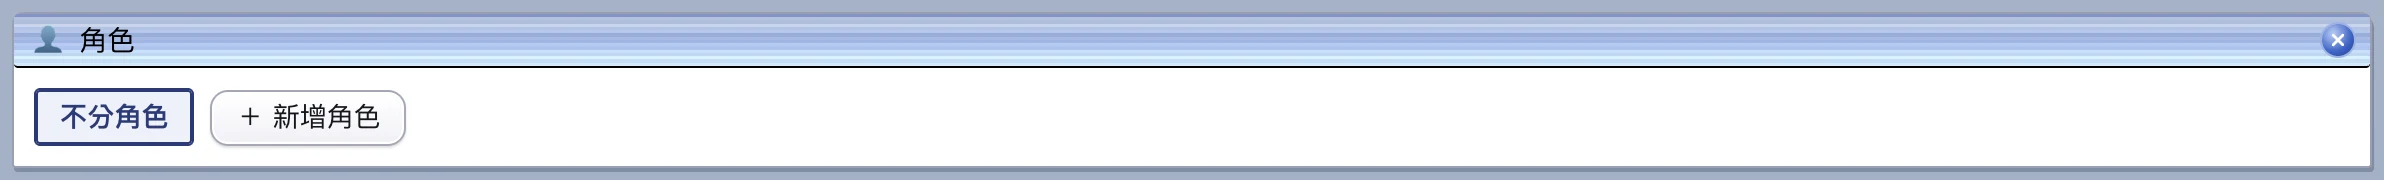
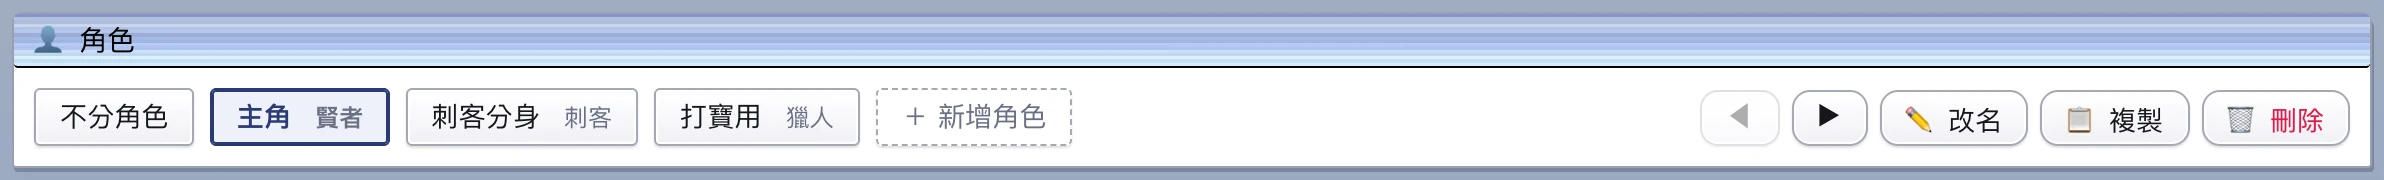
使用說明：角色分開、刪除只影響配裝、倉庫右鍵、分享不含倉庫與每日；重拍角色列、設定、人物狀態、能力加總截圖；人物狀態說明改成含 Buff、料理、藥水

diff --git a/public/gear-guide.html b/public/gear-guide.html
@@ -82,7 +82,7 @@
   <div class="card" id="settings">
     <h2>2. 角色、設定與人物狀態</h2>
     <h3 class="sub-h">角色</h3>
-    <figure><img src="guide/g-chars.webp" width="1192" height="90" alt="角色列：不分角色、各角色、新增、改名、刪除" loading="lazy"></figure>
+    <figure><img src="guide/g-chars.webp?v=2" width="1192" height="90" alt="角色列：不分角色、各角色（後面是職業）、新增角色，右邊是排序、改名、複製、刪除" loading="lazy"></figure>
     <ul>
       <li>每個角色各存一份配裝，點角色名稱就切換；名稱旁邊顯示該角色的職業。</li>
       <li>配裝的角色名單只和<b>技能樹頁</b>共用，和每日任務、期間活動、攻速計算的角色<b>分開</b>：在這裡新增、刪除、改名、排序、切換，都不會影響那幾頁（反過來也一樣）。</li>
@@ -90,10 +90,12 @@
       <li>新增角色時，會先複製目前畫面上的配裝。</li>
       <li><b>📋 複製角色</b>：選了角色時出現，用這個角色的整份配裝（職業、等級、素質、裝備、附魔、卡片、符文、Buff、技能樹）建一個新角色，名稱預設「○○ 的複本」。適合同一隻角色試不同配裝。</li>
       <li><b>調整順序</b>：直接拖曳角色（手機長按一下再拖），或用 ◀ ▶ 移動目前角色。技能樹頁的角色順序也會跟著變。</li>
+      <li><b>✏ 改名／🗑 刪除</b>：只改配裝（和技能樹頁）的這個角色；刪除會刪掉這個角色的配裝與技能點，每日任務等頁的同名角色和進度不受影響。</li>
+      <li>舊版配裝和每日任務共用角色；更新後第一次打開時，有配裝的角色會自動搬到配裝的名單，名稱和配裝都保留。</li>
     </ul>
     <div class="two">
-      <figure><img src="guide/g-settings.webp" width="800" height="539" alt="設定區：職業、Base 等級、Job 等級，啟用附魔／卡片／符文／技能樹開關" loading="lazy"><figcaption>設定</figcaption></figure>
-      <figure><img src="guide/g-status.webp" width="392" height="303" alt="人物狀態：六項素質與 ATK、MATK、HIT、CRI、DEF、MDEF、FLEE、ASPD" loading="lazy"><figcaption>人物狀態</figcaption></figure>
+      <figure><img src="guide/g-settings.webp?v=2" width="796" height="579" alt="設定區：職業、Base 等級、Job 等級，啟用附魔／卡片／符文／Buff／技能樹開關" loading="lazy"><figcaption>設定</figcaption></figure>
+      <figure><img src="guide/g-status.webp?v=2" width="392" height="369" alt="人物狀態：六項素質與 HP、SP、ATK、MATK、HIT、CRI、DEF、MDEF、FLEE、ASPD" loading="lazy"><figcaption>人物狀態</figcaption></figure>
     </div>
     <h3 class="sub-h">設定</h3>
     <ul>
@@ -113,11 +115,11 @@
     </ul>
     <h3 class="sub-h">人物狀態</h3>
     <ul>
-      <li><b>🪟 漂浮／📌 固定</b>：按「漂浮」後人物狀態會浮在畫面上，往下捲去勾 Buff、加技能點、換裝備時可以直接看素質變化；拖曳標題列可以移動位置，按「固定」放回原處（按鈕在人物狀態的標題列右邊）。手機上則是畫面右邊有一條「人物狀態」拉把，點一下人物狀態會從右邊滑出來，再點拉把（或點標題列）收起。</li>
+      <li><b>🪟 漂浮／📌 固定</b>：按「漂浮」後人物狀態會浮在畫面上，往下捲去勾 Buff、加技能點、換裝備時可以直接看素質變化；拖曳標題列可以移動位置，按「固定」放回原處（按鈕在人物狀態的標題列右邊）。手機上則是畫面右邊有一條「人物狀態」拉把，點一下人物狀態會從右邊滑出來，再點拉把、按標題列右邊的「收起」（遊戲版面是藍色 ✕）或點標題列收起。</li>
       <li>仿遊戲的 Alt+A 視窗。<b>左邊填純素質</b>，旁邊的「+ 數字」是 Job 加成加上裝備加成。巨神蟒蛇皮、神器等「依純素質加成」的裝備也是看這裡填的數字。</li>
       <li>右邊是 HP、SP、ATK、MATK、HIT、CRI、DEF、MDEF、FLEE、ASPD，依 Renewal 公式計算；ASPD 和攻速計算頁用同一套公式。</li>
       <li>HP／SP 前面標「約」的，代表這個職業、等級還沒和遊戲內數字對照確認（目前已確認：祭司、賢者、流氓 Lv 100 以上）；有其他職業的選角畫面 HP／SP 歡迎回報。</li>
-      <li>Job 加成六項素質都有（取自韓服 Ragnarok Zero 官方表，二轉用進階二轉的表，和樂園遊戲內一致）。打開「啟用 Buff」時，Buff 和料理也會算進去；不含藥水。</li>
+      <li>Job 加成六項素質都有（取自韓服 Ragnarok Zero 官方表，二轉用進階二轉的表，和樂園遊戲內一致）。打開「啟用 Buff」時，勾選的 Buff、料理和藥水（包括攻速藥水）也會算進去。</li>
     </ul>
   </div>
 
@@ -198,6 +200,7 @@
         <ul>
           <li>電腦：在裝備視窗的格子上<b>按右鍵</b>。</li>
           <li>手機：按部位選單右邊的藍色 <b>i</b> 按鈕。</li>
+          <li>倉庫：在倉庫裡的裝備上<b>按右鍵</b>，看存起來的那一件（不會換掉身上穿的）。</li>
         </ul>
         <p>視窗內容：</p>
         <ul>
@@ -229,7 +232,7 @@
   <div class="card" id="totals">
     <h2>9. 能力加總</h2>
     <div class="two">
-      <figure><img src="guide/g-totals.webp" width="376" height="1713" alt="能力加總：基本能力、技能條件加成、其他效果、套裝與套卡" loading="lazy"><figcaption>電腦版固定在右側；手機版在最下面，底部有摘要列</figcaption></figure>
+      <figure><img src="guide/g-totals.webp?v=2" width="372" height="1343" alt="能力加總：基本能力、技能條件加成、其他效果、套裝與套卡" loading="lazy"><figcaption>電腦版固定在右側；手機版在最下面，底部有摘要列</figcaption></figure>
       <div>
         <ul>
           <li><b>上半部</b>：STR、ATK、MHP、CRI、攻擊後延遲等可以直接加總的能力。武器精煉加的 ATK／MATK 會註明在後面。</li>
@@ -247,6 +250,7 @@
       <li>配裝<b>自動存在這台裝置的瀏覽器</b>（每個角色各一份），不會上傳；換裝置或清除瀏覽器資料就會消失。</li>
       <li>按能力加總最下面的<b>「分享這組配裝」</b>，會複製一個短網址（像 <code>/s/Ab3xK9q</code>，手機會叫出分享選單）；超過一年沒有人打開的短網址會自動失效（技能樹頁、攻速計算頁的分享也是短網址）。連結裡包含裝備、精煉、附魔、卡片、符文、技能點等全部設定。選了角色時，連結也會帶上角色名稱，對方打開會看到「正在檢視「角色名稱」分享的配裝」。</li>
       <li>別人打開你的連結時，畫面上方會提示「正在檢視分享的配裝」，修改不會蓋掉他自己的配裝；想留下來就按「存成我的配裝」。</li>
+      <li>分享連結<b>只有這組配裝</b>：倉庫、其他角色、每日任務與期間活動的進度都不會放進去。</li>
     </ul>
   </div>
 

diff --git a/public/gear.html b/public/gear.html
@@ -344,7 +344,7 @@
       <div class="sw-l" id="psGrid"></div>
       <div class="sw-r" id="swR"></div>
     </div>
-    <div class="hint">左邊填純素質，旁邊是 Job 加成＋裝備加成（打開「啟用 Buff」也會算進去）。右邊依 Renewal 公式，不含藥水。</div>
+    <div class="hint">左邊填純素質，旁邊是 Job 加成＋裝備加成（打開「啟用 Buff」時，Buff、料理、藥水也會算進去）。右邊依 Renewal 公式。</div>
   </div>
   <div id="statSpacer" hidden></div>
   </div>
@@ -1224,7 +1224,7 @@ function statusOf(tot) {
     out.sp = Math.floor((Math.floor(hs.sp[li] * (100 + S.INT) / 100) + (tot.MSP || 0)) * (100 + (tot.MSPp || 0)) / 100);
     out.hpsure = !!hs.ok && lv >= hs.ok;
   }
-  // ASPD：和攻速計算頁同一套公式（不含藥水）
+  // ASPD：和攻速計算頁同一套公式（攻速藥水從 Buff 的 _amod 加進來）
   const ac = st.job && typeof ASPD_DATA !== 'undefined' && ASPD_DATA.classes.find(x => x.name === (ASPD_CLS[st.job] || st.job));
   if (ac) {
     const wk = w ? (ASPD_WT[wt] || wt) : '無', lk = left ? (ASPD_WT[left.type] || left.type) : '無';
